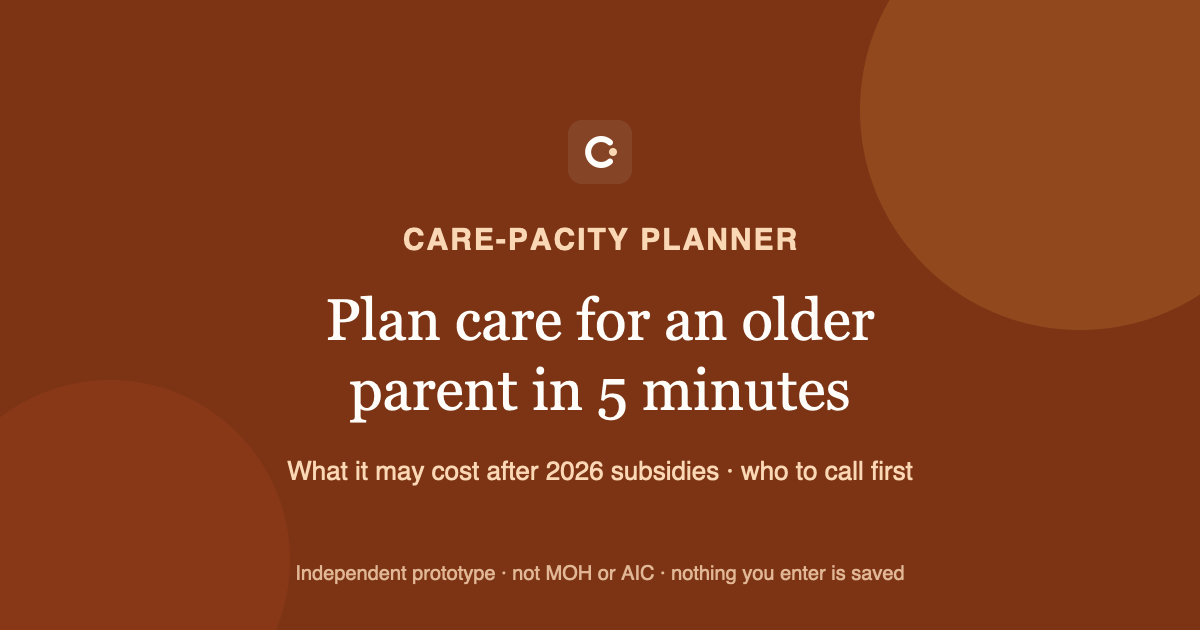
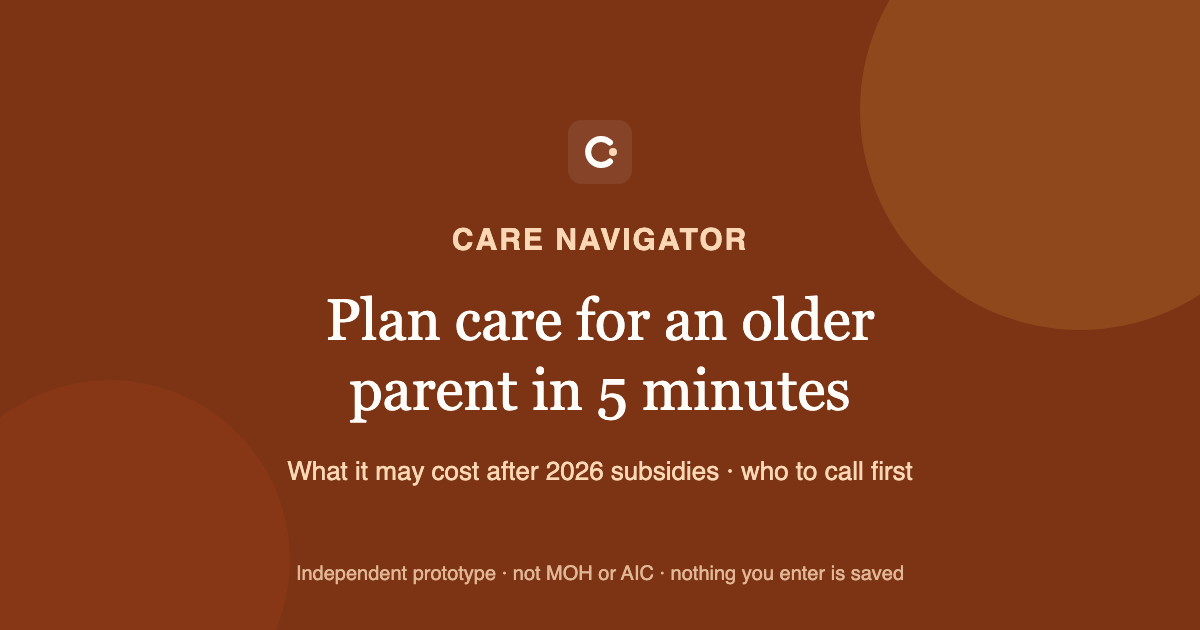
Rename to Care Navigator at care-navigator-xi.vercel.app; e2e can target a live URL

diff --git a/web/src/app/layout.tsx b/web/src/app/layout.tsx
@@ -2,19 +2,19 @@ import type { Metadata, Viewport } from "next";
 import Link from "next/link";
 import "./globals.css";
 
-const SITE = "https://care-pacity-planner.vercel.app";
+const SITE = "https://care-navigator-xi.vercel.app";
 const DESCRIPTION =
   "Work out which care services fit, what they may cost after the 2026 subsidies, and who to call first. About 5 minutes. Nothing is saved.";
 
 export const metadata: Metadata = {
   metadataBase: new URL(SITE),
-  title: { default: "Care-pacity Planner — plan care for an older parent", template: "%s — Care-pacity Planner" },
+  title: { default: "Care Navigator — plan care for an older parent", template: "%s — Care Navigator" },
   description: DESCRIPTION,
   robots: { index: false, follow: false },             // prototype (spec 11): remove before a public launch
   alternates: { canonical: "./" },
   openGraph: {
     type: "website",
-    siteName: "Care-pacity Planner",
+    siteName: "Care Navigator",
     title: "Plan care for an older parent in 5 minutes",
     description: "See what care may cost after 2026 subsidies, and who to call first. Nothing is saved.",
     url: SITE,

diff --git a/web/playwright.config.ts b/web/playwright.config.ts
@@ -2,18 +2,20 @@
 import { defineConfig } from "@playwright/test";
 
 const PORT = 4174;
+// E2E_BASE_URL=https://… runs the same checks against a deployed site instead of the local build.
+const LIVE = process.env.E2E_BASE_URL;
 export default defineConfig({
   testDir: "tests/e2e",
   testMatch: "*.e2e.ts",            // .e2e.ts so Vitest's default *.test/*.spec pattern skips these
   fullyParallel: true,
   forbidOnly: !!process.env.CI,
   reporter: process.env.CI ? "github" : "list",
-  use: { baseURL: `http://127.0.0.1:${PORT}`, browserName: "chromium" },
+  use: { baseURL: LIVE ?? `http://127.0.0.1:${PORT}`, browserName: "chromium" },
   projects: [
     { name: "phone", use: { viewport: { width: 375, height: 812 } } },
     { name: "desktop", use: { viewport: { width: 1280, height: 800 } } },
   ],
-  webServer: {
+  webServer: LIVE ? undefined : {
     command: `node tests/e2e/serve.mjs ${PORT}`,
     url: `http://127.0.0.1:${PORT}/`,
     reuseExistingServer: !process.env.CI,

diff --git a/docs/wireframes/index.html b/docs/wireframes/index.html
@@ -3,7 +3,7 @@
 <head>
 <meta charset="utf-8">
 <meta name="viewport" content="width=device-width, initial-scale=1">
-<title>Care-pacity Planner wireframes</title>
+<title>Care Navigator wireframes</title>
 <style>
   /* Colour tokens: docs/brand/tokens.css (warm palette, 25 Nov 2026). */
   :root {
@@ -133,7 +133,7 @@
 </head>
 <body>
 <header class="doc">
-  <h1>Care-pacity Planner: lo-fi wireframes</h1>
+  <h1>Care Navigator: lo-fi wireframes</h1>
   <p>Mobile frames at 375px, using Mei's scenario. Her mother, 86, is about to be discharged after a fall. She needs help washing and dressing, lives alone on weekdays, and her household income is $1,200 per person (range T0). Figures follow the 1 Jul 2026 rules in <code>docs/product-design-v2.md</code>. Wording comes from specs 08 and 09 and hasn't had a practitioner review yet. Scroll sideways to see every frame.</p>
 </header>
 

diff --git a/web/src/app/about/page.tsx b/web/src/app/about/page.tsx
@@ -6,8 +6,8 @@ export const metadata: Metadata = { title: "About", description: "An independent
 export default function About() {
   return (
     <article className="prose">
-      <h1>About Care-pacity Planner</h1>
-      <p>Care-pacity Planner is an independent project by a student in Singapore. It is not run by, endorsed by or
+      <h1>About Care Navigator</h1>
+      <p>Care Navigator is an independent project by a student in Singapore. It is not run by, endorsed by or
         connected to the Ministry of Health, the Agency for Integrated Care or any government agency. It uses public
         information and open government data, credited on the <Link href="/data-sources/">Data sources</Link> page.</p>
       <p>It helps families do the planning before they speak to a doctor, a medical social worker or an AIC Link. It

diff --git a/web/src/components/planner/Screens.tsx b/web/src/components/planner/Screens.tsx
@@ -468,7 +468,7 @@ export function Action({ s, update, restart }: Pick<P, "s" | "update" | "restart
         <span>{today}</span>
       </div>
       <h1>Mum's care plan</h1>
-      <p className="print-only meta">{today} · Care-pacity Planner</p>
+      <p className="print-only meta">{today} · Care Navigator</p>
       <ol className="steps">
         <li>
           <h3>Call {m.branch.firstContact.charAt(0).toLowerCase() + m.branch.firstContact.slice(1)}{m.branchId === "in_hospital" && !s.d ? ", before she's discharged" : ""}</h3>

diff --git a/docs/brand/tokens.css b/docs/brand/tokens.css
@@ -1,5 +1,5 @@
 /*
- * Care-pacity Planner colour tokens: "Warm kitchen table" (25 Nov 2026).
+ * Care Navigator colour tokens: "Warm kitchen table" (25 Nov 2026).
  * Replaces sg-care-capacity's purple and white for this product. The owner asked for a warm scheme that invites people in.
  * Cream paper, espresso text, terracotta for every action, sage for reassurance ("why this fits", first contact),
  * marigold for the prototype banner only. Light theme only; no theme switch.

diff --git a/docs/product-design-v2.md b/docs/product-design-v2.md
@@ -288,7 +288,7 @@ RUN TIME (browser)
 | Open layers | Weekly pull of FSC and CC GeoJSON from data.gov.sg | Open licence, current; 2 downloads stays under the 2-per-10-seconds limit |
 | Pipeline | Python 3.12, PyYAML, Pydantic, data checks | Ten small files need no database |
 | Release | JSON plus a manifest with version and hashes, committed to the repo | Site always ships a known, verified version; Git history is the release log |
-| Frontend | Next.js static export, TypeScript, one global stylesheet on the warm palette in `docs/brand/tokens.css` (Tailwind dropped at Stage 5) | Fast on phones, free to host, shares the Care-pacity name with its own warm look |
+| Frontend | Next.js static export, TypeScript, one global stylesheet on the warm palette in `docs/brand/tokens.css` (Tailwind dropped at Stage 5) | Fast on phones, free to host, with its own warm look |
 | Calculation | Pure TypeScript module (matching + cost), unit-tested | Same inputs, same outputs; no data leaves the device |
 | Postal lookup | On the phone: first 2 digits → `sectors.json` area centre; region picker if unknown | OneMap requires a token; this needs no server and keeps the postal code on the device. A token-holding serverless proxy is the upgrade if street-level distance is ever needed |
 | Plan sharing | Plan encoded in the URL (compressed; band only, no names or income figures) | Shareable on WhatsApp without storing anything |
@@ -544,6 +544,7 @@ From the pre-development review on 25 Nov 2026. Items are ranked by risk to laun
 - [x] **5. URLs, domain and name (25 Nov 2026).**
   - **Name:** "Caregiver Navigator" is too close to SG Assist and C3A's **Caregiving Navigator** training programme ([registration page](https://form.jotform.com/241847851634464)). The public name becomes **Care-pacity Planner**, a sibling of the Care-pacity site so the two read as one portfolio. "Caregiver Navigator" stays as the internal working name; the repo stays `care-navigator`.
   - **Domain:** the free Vercel subdomain `care-pacity-planner.vercel.app` (Hobby plan, $0). Fallback if it's taken: `care-pacity-plan.vercel.app`. No bought domain.
+  - **Update (owner, 25 Nov 2026): renamed Care Navigator.** Vercel gave the address `care-navigator-xi.vercel.app`, because `care-navigator.vercel.app` was taken. Care-pacity is the owner's separate project, so this site no longer shares its name. If the address is taken, use the one Vercel offers and update `web/src/app/layout.tsx` and `web/public/sitemap.xml`. Note: "Care Navigator" is close to C3A's Caregiving Navigator programme (see above); the independence statement on every page covers that.
   - **Icons and preview:** a favicon, an Apple touch icon and a 1200×630 preview image are in `docs/brand/` (Stage 5 copies them into `web/public/`).
 
 ### Specs to write (Claude can draft; you approve)

diff --git a/docs/specs/11-sharing-seo.md b/docs/specs/11-sharing-seo.md
@@ -6,13 +6,13 @@ Status: **approved by owner, 25 Nov 2026** · Checklist item 11 · Blocks Stage 
 
 | Route | `<title>` | `description` |
 |---|---|---|
-| `/` | Care-pacity Planner — plan care for an older parent | Work out which care services fit, what they may cost after the 2026 subsidies, and who to call first. About 5 minutes. Nothing is saved. |
-| `/plan` | Your care plan — Care-pacity Planner | Same as above. |
-| `/about` | About — Care-pacity Planner | An independent student project. Not affiliated with MOH or AIC. |
-| `/privacy` | Privacy — Care-pacity Planner | What this site does and doesn't collect. |
-| `/data-sources` | Data sources — Care-pacity Planner | The open data and official pages behind every figure. |
+| `/` | Care Navigator — plan care for an older parent | Work out which care services fit, what they may cost after the 2026 subsidies, and who to call first. About 5 minutes. Nothing is saved. |
+| `/plan` | Your care plan — Care Navigator | Same as above. |
+| `/about` | About — Care Navigator | An independent student project. Not affiliated with MOH or AIC. |
+| `/privacy` | Privacy — Care Navigator | What this site does and doesn't collect. |
+| `/data-sources` | Data sources — Care Navigator | The open data and official pages behind every figure. |
 
-Name and domain are from decision 5. Fallback domain: `care-pacity-plan.vercel.app`.
+Name and domain are from decision 5 (renamed Care Navigator, 25 Nov 2026). The address is `care-navigator-xi.vercel.app`, the one Vercel gave because `care-navigator` was taken. If it changes, update `web/src/app/layout.tsx` and `web/public/sitemap.xml`.
 
 ## Link preview card (WhatsApp, Telegram, LinkedIn)
 
@@ -20,13 +20,13 @@ On every route:
 
 ```html
 <meta property="og:type" content="website">
-<meta property="og:site_name" content="Care-pacity Planner">
+<meta property="og:site_name" content="Care Navigator">
 <meta property="og:title" content="Plan care for an older parent in 5 minutes">
 <meta property="og:description" content="See what care may cost after 2026 subsidies, and who to call first. Nothing is saved.">
-<meta property="og:image" content="https://care-pacity-planner.vercel.app/og.png">
+<meta property="og:image" content="https://care-navigator-xi.vercel.app/og.png">
 <meta property="og:image:width" content="1200">
 <meta property="og:image:height" content="630">
-<meta property="og:url" content="https://care-pacity-planner.vercel.app/">
+<meta property="og:url" content="https://care-navigator-xi.vercel.app/">
 <meta name="twitter:card" content="summary_large_image">
 ```
 

diff --git a/PRODUCT.md b/PRODUCT.md
@@ -8,7 +8,7 @@ web
 
 ## Stack
 
-Next.js (static export, `output: 'export'`), TypeScript and one global stylesheet on the warm palette (no Tailwind), hosted free on Vercel (`care-pacity-planner.vercel.app`) with security headers from `web/vercel.json`. No server code, no database, and no outside service at run time. The data pipeline is Python 3.12 + Pydantic in GitHub Actions. The source is `docs/product-design-v2.md` and `docs/architecture-prompts-v2.md`.
+Next.js (static export, `output: 'export'`), TypeScript and one global stylesheet on the warm palette (no Tailwind), hosted free on Vercel (`care-navigator-xi.vercel.app`) with security headers from `web/vercel.json`. No server code, no database, and no outside service at run time. The data pipeline is Python 3.12 + Pydantic in GitHub Actions. The source is `docs/product-design-v2.md` and `docs/architecture-prompts-v2.md`.
 
 ## Users
 
@@ -45,8 +45,8 @@ It is the step after AIC's Care Services Recommender. It turns suggested service
 
 ## Brand Commitments
 
-- **Name:** public name **Care-pacity Planner** (working name Caregiver Navigator), a sibling of the Care-pacity site.
-- **Visual identity:** its own the warm palette in `docs/brand/tokens.css` (cream paper, espresso text, terracotta actions, sage for reassurance; owner's choice, 25 Nov 2026). It deliberately does not use sg-care-capacity's purple and white, so the planner feels warm and inviting. It shares the Care-pacity name and the system-font plus Charter-serif type pairing. Icons and the preview image are in `docs/brand/`.
+- **Name:** public name **Care Navigator** (repo `care-navigator`; working name Caregiver Navigator). It is separate from the owner's Care-pacity project (renamed 25 Nov 2026).
+- **Visual identity:** its own the warm palette in `docs/brand/tokens.css` (cream paper, espresso text, terracotta actions, sage for reassurance; owner's choice, 25 Nov 2026). It deliberately does not use sg-care-capacity's purple and white, so the planner feels warm and inviting. It uses the system-font plus Charter-serif type pairing. Icons and the preview image are in `docs/brand/`.
 - **Independence:** an independent student project, not affiliated with MOH, AIC or the Government of Singapore. No government logos, colours or domains.
 
 ## Evidence on Hand

diff --git a/docs/verified/desk-evaluation-2026-11-25.md b/docs/verified/desk-evaluation-2026-11-25.md
@@ -1,6 +1,6 @@
 # Desk evaluation (Stage 7, 25 Nov 2026)
 
-Care-pacity Planner was evaluated without interviews, usability sessions or a practitioner review (owner's decision, 25 Nov 2026). Instead it was checked against published sources, measured, and reviewed with standard methods. This report is the evidence for the portfolio write-up.
+Care Navigator was evaluated without interviews, usability sessions or a practitioner review (owner's decision, 25 Nov 2026). Instead it was checked against published sources, measured, and reviewed with standard methods. This report is the evidence for the portfolio write-up.
 
 **Bottom line:** every figure and rule now has a published source or is marked as our judgement. The wording meets the plain-language rules on every screen, and the site scores 100 on accessibility. Compared with the official route, the planner isn't much faster to operate (about 1 minute of input against 1.5). Its value is in the output: it produces 7 of 7 things a family needs from this task, while the official route gives 1 fully and 2 only partly.
 

diff --git a/docs/specs/07-legal-privacy-text.md b/docs/specs/07-legal-privacy-text.md
@@ -50,7 +50,7 @@ This site does not collect personal data. That includes names, NRIC numbers, pho
 
 **`/about`:**
 
-> Care-pacity Planner is an independent project by a student in Singapore. It is not run by, endorsed by or connected to the Ministry of Health, the Agency for Integrated Care or any government agency. It uses public information and open government data, credited on the Data sources page.
+> Care Navigator is an independent project by a student in Singapore. It is not run by, endorsed by or connected to the Ministry of Health, the Agency for Integrated Care or any government agency. It uses public information and open government data, credited on the Data sources page.
 >
 > It helps families do the planning before they speak to a doctor, a medical social worker or an AIC Link. It does not replace them.
 

diff --git a/docs/architecture-prompts-v2.md b/docs/architecture-prompts-v2.md
@@ -19,7 +19,7 @@ A six-stage prompt suite for an AI coding assistant. Run the stages in order; ea
 
 ## Stage 1: Repository, ADRs and curated YAML
 
-Act as a Principal Solutions Architect. Set up the repository for Care-pacity Planner (working name Caregiver Navigator; repo `care-navigator`), a zero-database, static-first Singapore care-plan and cost estimator for family caregivers of seniors.
+Act as a Principal Solutions Architect. Set up the repository for Care Navigator (working name Caregiver Navigator; repo `care-navigator`), a zero-database, static-first Singapore care-plan and cost estimator for family caregivers of seniors.
 
 **1. Directory structure**
 - `docs/adr/` — Architecture Decision Records
